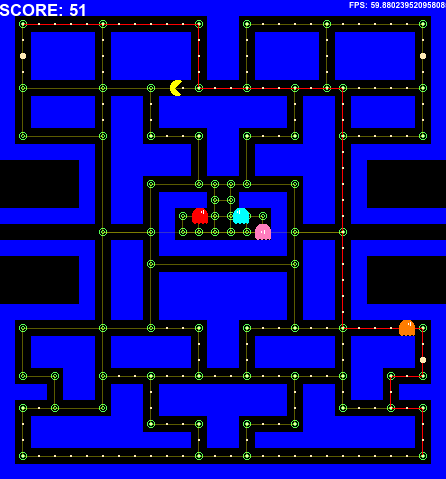
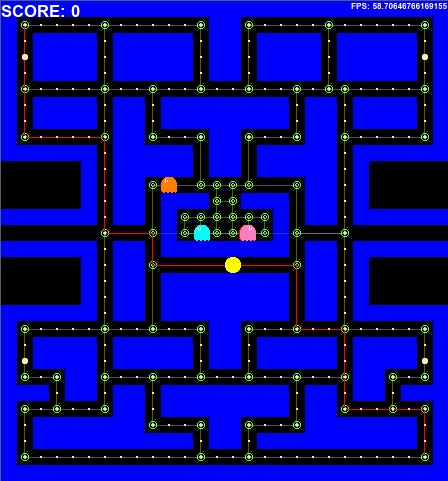
pathfind fix

diff --git a/spatial/NavigationMap.rb b/spatial/NavigationMap.rb
@@ -28,7 +28,7 @@ class NavNode
   end
 
   def reset_heuristics
-	@h = @f = @g = 0
+	@h = @f = @g = 9999999999999
   end
 
   def manh( px0, py0, px1, py1 )
@@ -94,6 +94,7 @@ class NavigationMap
     @navnodes = Array.new
 
     parse_map
+    puts @navnodes.size()
   end
 
   def try_follow_link( node, dir, dx, dy, iter )
@@ -118,6 +119,34 @@ class NavigationMap
     @navnodes.each{ |n|
       n.debug
     }
+  end
+
+  def parse_map2
+	(1..@map.width-2).each { |x|
+		(1..@map.height-2).each { |y|
+			if not @map.is_solid?( x, y ) then
+				navnode = @navmap[y][x]
+				navnode.debug
+				navnode.set_active
+				if not navnode.is_active? then
+					navnode.set_active
+				end
+				if not @map.is_solid?(x-1,y) then
+					navnode.set_link_node(Direction::Left,get(x-1,y))
+				end
+				if not @map.is_solid?(x+1,y) then
+					navnode.set_link_node(Direction::Right,get(x+1,y))
+				end
+				if not @map.is_solid?(x,y+1) then
+					navnode.set_link_node(Direction::Down,get(x,y+1))
+				end
+				if not @map.is_solid?(x,y-1) then
+					navnode.set_link_node(Direction::Up,get(x,y-1))
+				end
+				@navnodes << navnode
+			end
+		}
+	}
   end
 
   def parse_map

diff --git a/ai/algo/astar.rb b/ai/algo/astar.rb
@@ -21,6 +21,7 @@ class AStar
 
 	def setnodes( origin, goal )
 		origin.parent = nil
+		origin.list = :open_set
 		origin.g = 0
 		origin.h = origin.cost_to( goal )
 		origin.f = origin.h
@@ -35,7 +36,7 @@ class AStar
 	def getneighboors(node)
 		neigh = []
 		(0..3).each do |i|
-			if node.is_used i then
+			if node.is_active? and node.is_used i then
 				neigh << node.get_link_node(i)
 			end
 		end
@@ -46,7 +47,7 @@ class AStar
 	# p0, p1 -> { x, y }
 	def step
 		@iter = @iter + 1
-		@openset.sort_by!{ |n| n.h }
+		@openset.sort_by!{ |n| n.f }
 		@openset.reverse!
 		current = @openset.pop
 		if current.is_same? @goal then

diff --git a/Main.rb b/Main.rb
@@ -77,13 +77,13 @@ class GameWindow < Gosu::Window
 
 	@font = Gosu::Font.new(self, "Arial", 12) #window,window.initial.font_name, window.initial.font_size)
     @tehfpsctr = FPSCounter.new()
-    	@tehfpsctr.show_fps = true
+	@tehfpsctr.show_fps = true
 
 	astar = AStar.new( @map.navmap )
 	astar.setnodes( @map.navmap.get(1,1), @map.navmap.get(26,28) )
 	while astar.step == AStarState::RUNNING do ; end
 	astar.getpath.each { |n|
-		n.debug()
+		#n.debug()
 	}
 
 	@powertimer = 0

diff --git a/ai/behaviour/Behaviour.rb b/ai/behaviour/Behaviour.rb
@@ -23,7 +23,7 @@ class Behaviour
 
   def think
 
-	  (0..10).each {
+	  (0..1).each {
 		astar = AStar.new( @map.navmap )
 		astar.setnodes( @map.navmap.get(1,1), @map.navmap.get(26,28) )
 		while astar.step == AStarState::RUNNING do ; end
